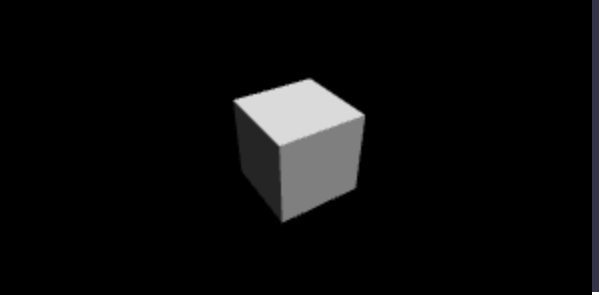
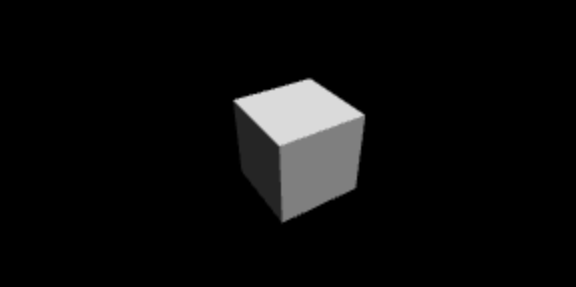
updated immersive experience

Changed region(s): [[0.375, 0.2509, 0.6562, 0.7805], [0.9688, 0.0, 1.0, 1.0]]

diff --git a/mixed-reality-docs/mr-dev-docs/develop/web/tutorials/babylonjs-webxr-helloworld/interact-03.md b/mixed-reality-docs/mr-dev-docs/develop/web/tutorials/babylonjs-webxr-helloworld/interact-03.md
@@ -128,7 +128,8 @@ In this tutorial, learn how to:
     }
     ```
 
-1. TBD
+1. The above code generates the following output:
+![WebXR scene](../images/hello-world-webxr-scene.png)
 
 ## Run on HoloLens2 emulator
 
